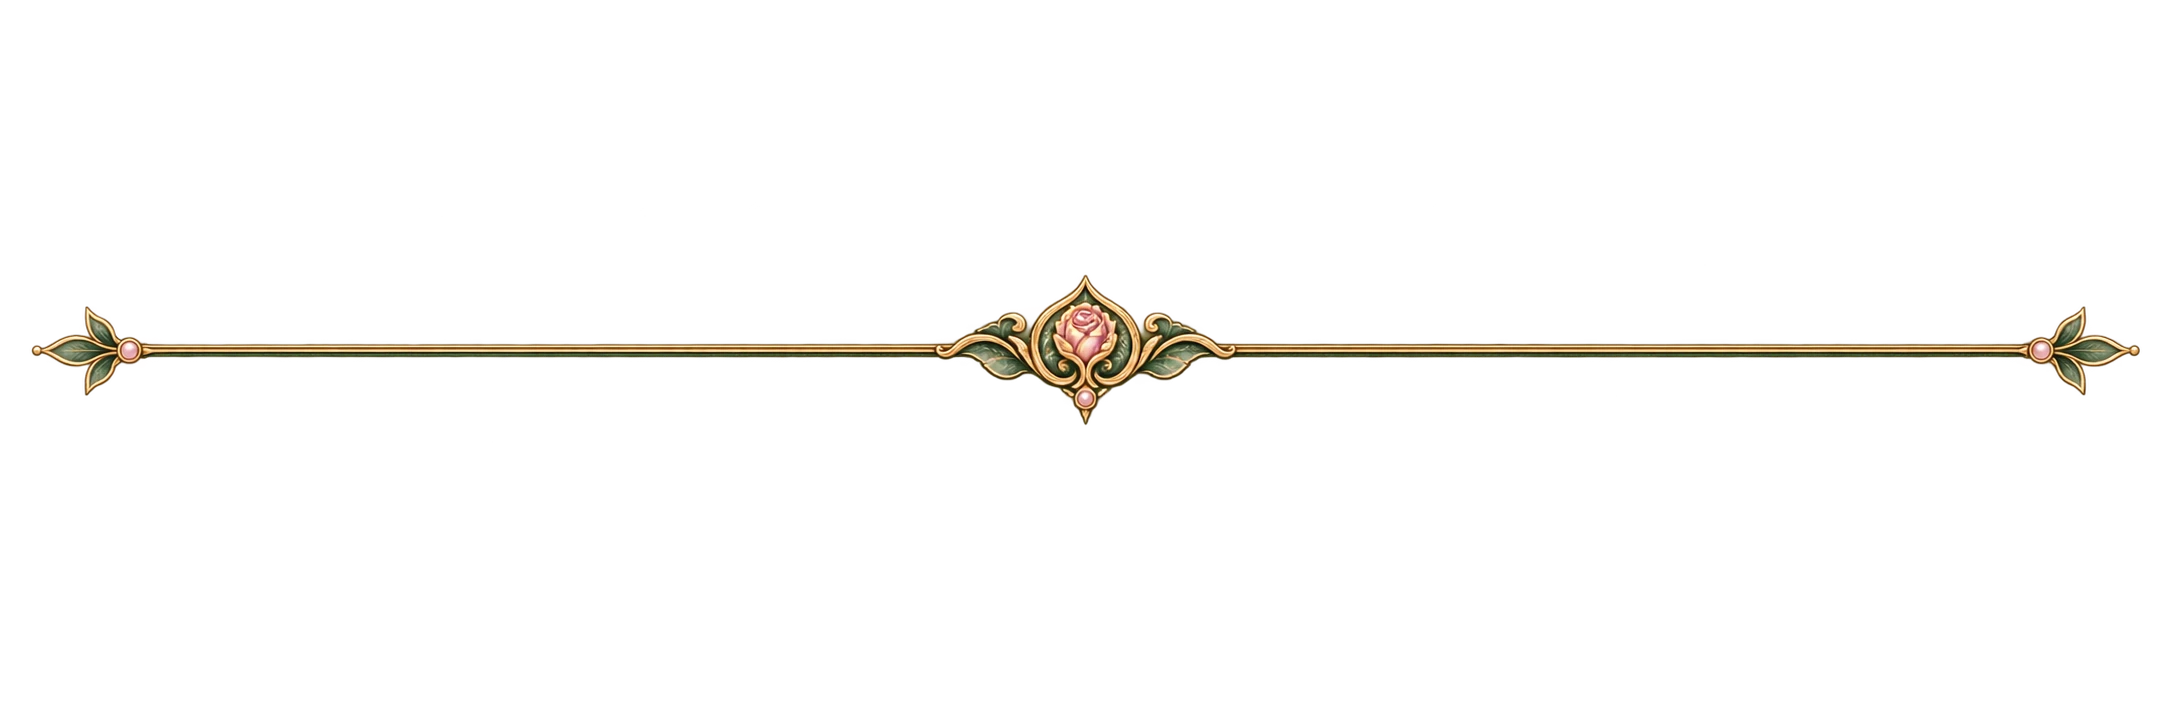
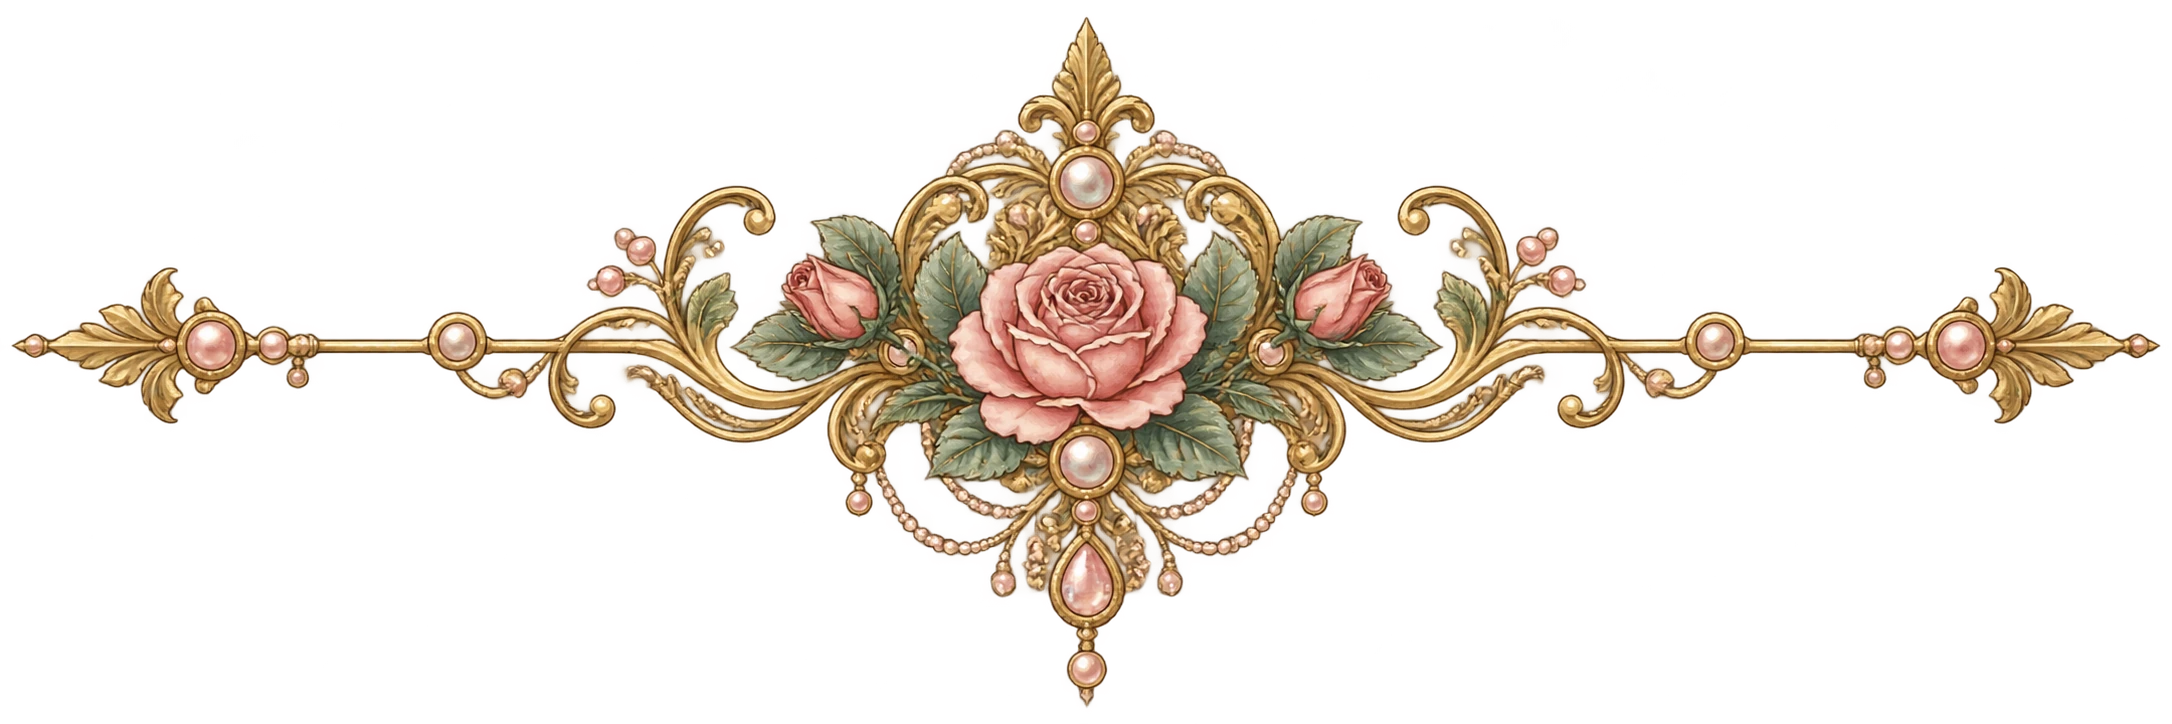
Update Fairest theme artwork and asset guide

Changed region(s): [[0.0, 0.0304, 1.0, 0.9724]]

diff --git a/art-preview/theme-asset-guide.md b/art-preview/theme-asset-guide.md
@@ -1,0 +1,26 @@
+# Changeling theme asset roles
+
+Use the unthemed files in `public/game-lines/changeling/images/` as geometry references for every Seeming. Theme art changes the visual language, not an asset's job. See `game-lines/changeling/styles/sheet.css` and `app/workspace/sheet-primitives.tsx` for the current rendering geometry.
+
+| Asset | Unthemed size | Required role and constraints |
+| --- | ---: | --- |
+| `attributes-divider` | 2172 × 724 | Transparent, very thin horizontal rule for both sides of the Attributes heading on desktop. CSS places it under the leaf overlay, scales it to the available width, and mirrors the right side. Keep the ornament sparse and its line aligned horizontally; no large central crest. Mobile does not load it. |
+| `attributes-divider-leaf` | 1570 × 579 | Transparent one-sided flourish at the inner end of each Attributes heading rule. CSS draws it at 26 px height on desktop and 24 px on mobile, anchored to the right edge and mirrored on the other side. Keep a readable leaf/floral silhouette at that size; it must not become a full two-ended divider. |
+| `background-changeling` | 1145 × 1374 | Transparent, centered decorative emblem or watermark. The sheet `::after` renders it once at 50% width and 0.15 opacity on desktop, 72% width and 0.17 opacity on mobile. Keep the motif centered, visually balanced, and isolated from all four edges. Do not draw a page border, parchment, or full-page scene. |
+| `column-divider` | 13 × 880 | Transparent hairline vertical column separator. CSS repeats it down the left edge of later trait columns at only 3 px width. Keep it nearly continuous, narrow, and even; wide ornaments disappear or cause visible repetition seams. |
+| `experience-purchase-icon` | 84 × 96 | Transparent compact glyph inside a 21 × 21 px Experience purchase control. Use a simple high-contrast silhouette with generous margins, not a detailed illustration requiring a large display size. |
+| `frame-center` | 232 × 314 | Compact, transparent central crest for the outer frame. CSS places it in a 44 × 64 px box at 50% background size on desktop, then rotates the same art 180° at the bottom. It must read at roughly 22 px wide and pair with the fine horizontal rails. Do not use a long vertical pendant. |
+| `frame-corner` | 1254 × 1254 | Transparent upper-left L-shaped botanical/jewel corner for the outer page border. CSS displays it around 190 × 178 px on desktop, mirrors it to the right, and flips it vertically for bottom corners. Keep useful art near the top and left edges, open center, and a silhouette that survives mirroring. |
+| `frame-side` | 120 × 103 | Tiny transparent side accent flanking the center crest on the outer frame. CSS shows it near 11 × 24 px, mirrored left/right and rotated at bottom. It is a small local flourish, not a long repeatable border rail; the long rails are CSS gradients. |
+| `paper-texture` | 1254 × 1254 | Opaque subtle paper surface repeated across the sheet at 1024 × 1024 px. It sits beneath all readable text. Keep contrast low, avoid conspicuous objects and obvious tile edges. |
+| `section-divider` | 514 × 403 | Transparent compact, one-sided terminal flourish that sits at the left edge of each heading rule and under both sides of the title; CSS mirrors the right side. It is shown only about 16–17 px high, with adjacent straight lines drawn by CSS. Avoid a full-width centerpiece. |
+| `skill-highlight-left` | 760 × 552 | Transparent left end cap of the Kith-skill name frame. CSS scales it to about 52 × 38 px. Open end faces right; the top and bottom rails must reach the right image boundary. Keep its middle clear for text. |
+| `skill-highlight-middle-1` | 260 × 552 | Transparent repeatable inner segment, about 18 × 38 px on screen. Top and bottom rails must run edge to edge and meet the adjacent segment at identical heights. Tiny restrained ornament only. |
+| `skill-highlight-middle-2` | 260 × 552 | Second repeatable inner segment, alternated with middle-1. Same edge geometry and rail heights. |
+| `skill-highlight-right` | 471 × 552 | Transparent right end cap, about 32 × 38 px on screen. Open end faces left; rails must reach the left image boundary. Keep its middle clear for text. |
+| `tab-texture` | 1280 × 320 | Opaque, dark, low-contrast fill for the **active** tab only. CSS places it behind light text in an inset pseudo-element using `background-size: cover`; the same texture must work in variable-width desktop and mobile tabs. Keep the entire surface dark enough for light text, with no frame, large ornament, bright central patch, or legible writing. Subtle repeatable-looking material texture is appropriate. |
+| `title` | 998 × 190 | Transparent wide wordmark in the sheet header. CSS uses `background-size: contain` inside a 998:190 aspect-ratio mark, usually around 380 px wide. For each themed version, spell the **Seeming name**, never “Changeling”; keep the complete word legible at its rendered width with broad horizontal composition. |
+
+The four skill pieces form one uninterrupted horizontal frame behind a variable-width skill name. `KithSkillName` measures the name, inserts alternating middle segments, and leaves the artwork behind the text. Test the assembled frame at actual display size, not only as four enlarged images. The CSS background size is 100% × 100%, so inconsistent aspect ratios, rail positions, or opaque backgrounds are visible immediately. Fairest revision 2 was approved for installation; subsequent theme previews should remain separate from active WebP assets until approved.
+
+For Fairest, use luxurious Art Nouveau and Belle Époque jewelry, chiefly aged gold, sage green, blush pink, pearls and pink ivory. Apply each other Seeming's user-specified art style and palette without changing these geometry constraints. Avoid photorealism and hyperrealism.
